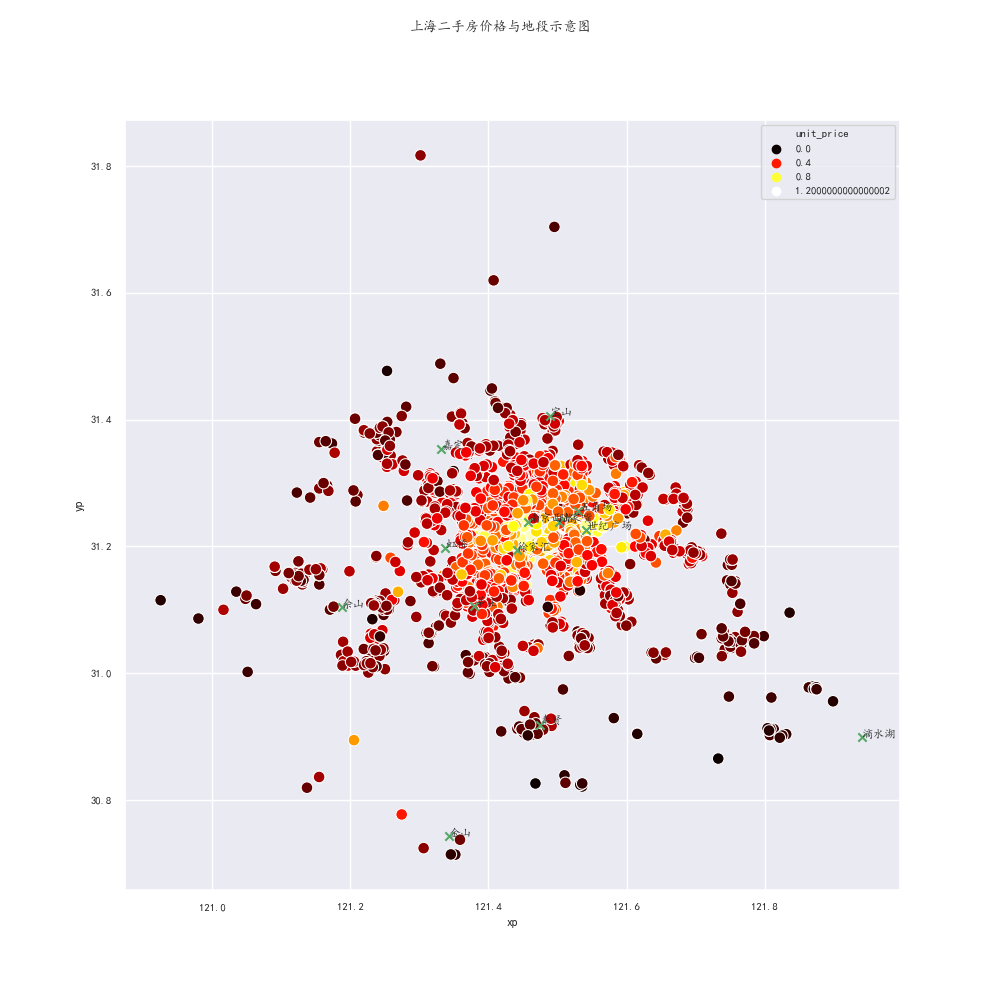
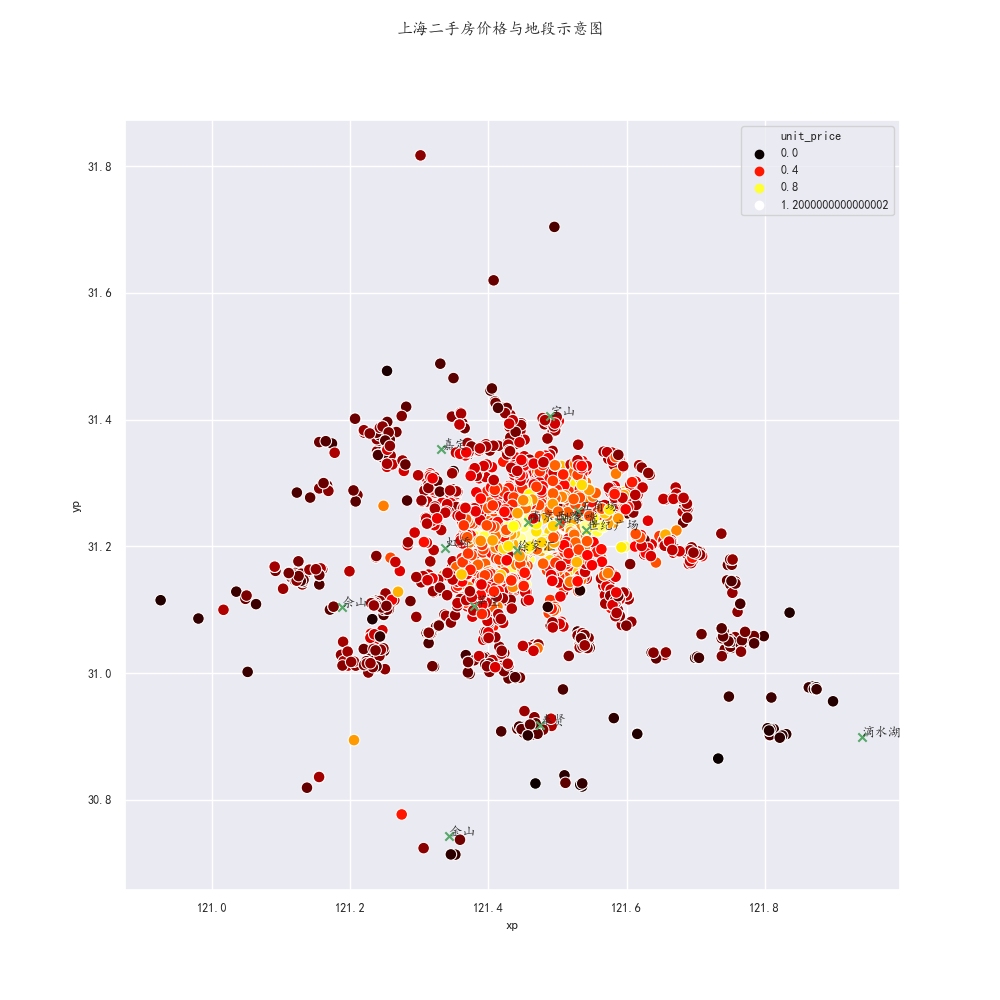
update

diff --git a/version1.1/class_feature_select.py b/version1.1/class_feature_select.py
@@ -1,0 +1,65 @@
+import numpy as np
+import pandas as pd
+import matplotlib
+import matplotlib.pyplot as plt
+import seaborn as sns
+class FeatureSelect(object):
+    def __init__(self):
+        self.data = pd.read_excel('WashedData.xls')
+        self.feature=None
+    
+    def SelectDistance(self):
+        return self.data
+    
+    def SelectAge(self):
+        return self.data
+    
+    def SelectDecorate(self):
+        self.data = self.data[self.data['decorate'] != -1]
+        return self.data
+    
+    def SelectBedroom_Lavatory(self):
+        self.data = self.data[self.data['lavatory_num']<3]
+        self.data['b_l'] = (self.data['bedroom_num'] - self.data['lavatory_num']) / (self.data['bedroom_num'])
+        return self.data
+
+    def NewData(self):
+        self.feature = self.data[['unit_price','distance','age','decorate','b_l']]
+        return self.feature
+
+    def HeatPlot(self,data,save=True):
+        data = data.corr()
+        sns.set(font_scale=0.8)
+        plt.subplots(figsize=(8, 8))
+        pc=sns.heatmap(data, annot=True, square=True)
+        name = 'Heatmap Correlation Coefficient between Each Other'
+        plt.suptitle(name)
+        if save:
+            plt.savefig(name)
+        plt.show()
+
+if __name__ == '__main__':
+    f=FeatureSelect()
+    f.SelectDistance()
+    f.SelectAge()
+    f.SelectDecorate()
+    f.SelectBedroom_Lavatory()
+    data=f.NewData()
+    f.HeatPlot(data)
+
+        
+    
+
+
+# data.drop(['xp', 'yp'], axis=1,inplace=True)
+
+
+
+
+# d1=data[data['distance']<0.017]
+# d2=data[data['distance'].between(0.017,0.069)]
+# d3=data[data['distance'].between(0.069,0.180)]
+# d4=data[data['distance']>0.180]
+# for i in [d1,d2,d3,d4]:
+#     p = np.corrcoef(list(i.loc[:, 'unit_price']), i.loc[:, 'kitchen_num'])
+#     print(p)

diff --git a/version1.1/class_paint.py b/version1.1/class_paint.py
@@ -14,7 +14,6 @@ class Paint(object):
     def jointplot(self, x, y,save=True):
         sns.set(style="darkgrid")
         p = np.corrcoef(list(self.data.loc[:, x]), self.data.loc[:, y])
-
         pc = sns.jointplot(x=x, y=y, data=self.data.loc[:, [x, y]], kind='reg', color='g')
         name='joint relation between {0:s} and {1:s}'.format(y.capitalize(), x.capitalize())
         plt.suptitle(name)
@@ -25,6 +24,7 @@ class Paint(object):
 
     def histo(self, s,bins=20,save=True):  # 绘制单个变量的直方图
         df = self.data[s]
+        sns.set(style="darkgrid")
         pc = sns.distplot(df, kde=True,bins=bins)
         name='the Histograme of {:s}'.format(s.capitalize())
         plt.suptitle(name)
@@ -56,7 +56,7 @@ class Paint(object):
 
     def xyplot(self,save=True):
         plt.figure(figsize=(10, 10))
-        sns.set(font=self.zh.get_name(),font_scale=0.7)
+        sns.set(font=self.zh.get_name(),font_scale=0.8)
         sns.scatterplot(x=self.data['xp'], y=self.data['yp'], \
                              hue=self.data['unit_price'], s=70, palette="hot")
         referance = {'南京西路': [121.457901, 31.23881328496342],
@@ -90,14 +90,12 @@ class Paint(object):
 
 if __name__ == '__main__':
     p = Paint()
-    # p.jointplot('age','unit_price')
-    # plt.show()
     # p.histo('size')
     # plt.show()
-    # p.jointplot('distance','unit_price')
-    # plt.show()
-    pc=p.box('decorate','unit_price')
+    p.jointplot('unit_price','decorate')
     plt.show()
+    # pc=p.box('lavatory_num','bedroom_num')
+    # plt.show()
     # p.heat()
     # plt.show()
     # p.xyplot()
